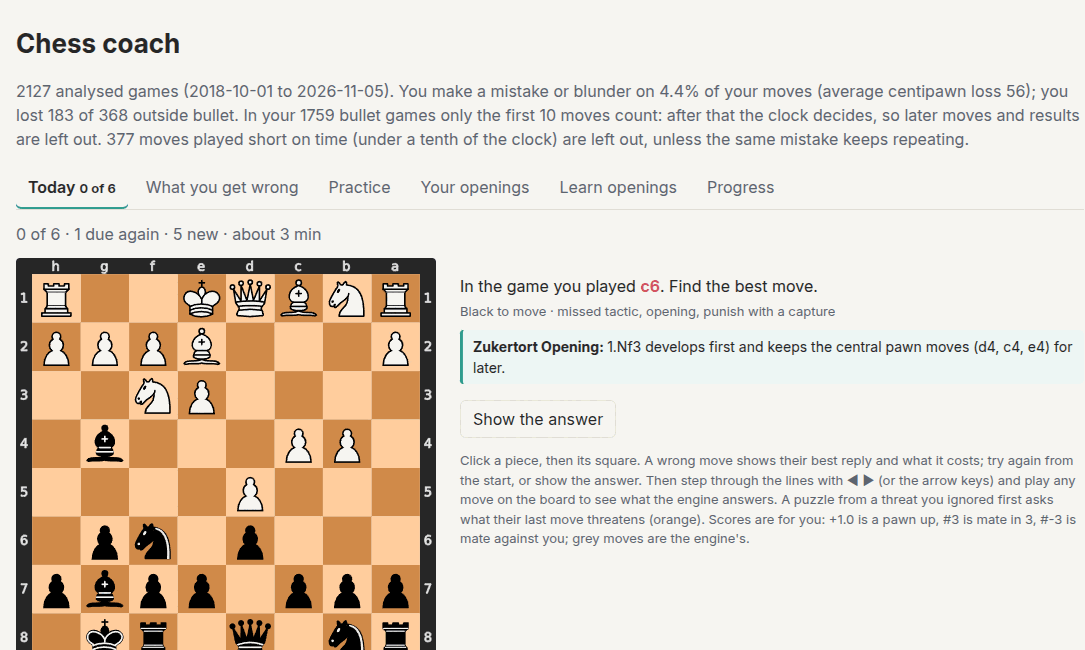
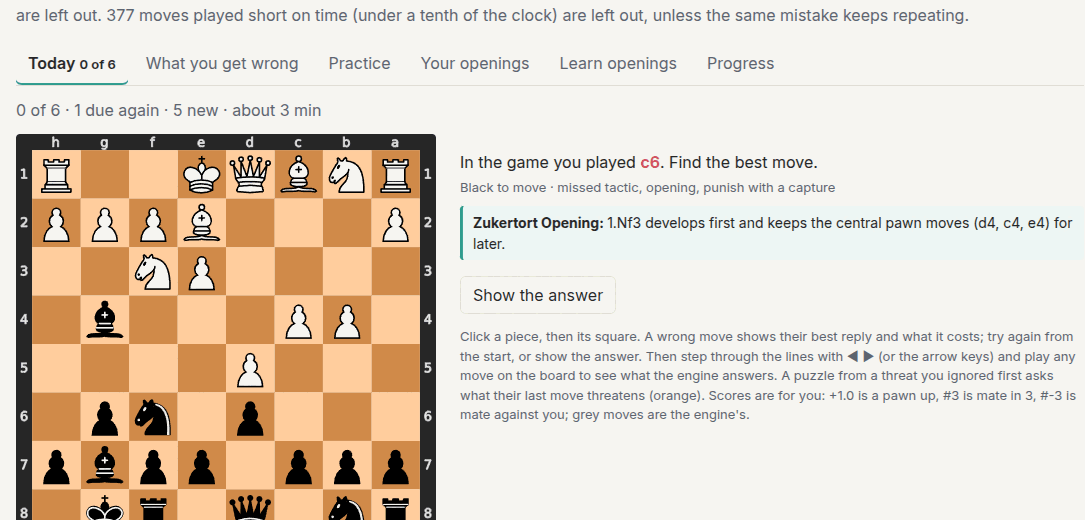
docs: line up the README's captions, and draw the diagram as an image

diff --git a/README.md b/README.md
@@ -34,36 +34,36 @@ to day.
 
 <table>
   <tr>
-    <td width="50%">
+    <td width="50%" valign="top">
       <b>Today</b><br>
       Ten things a day, reviews first. Short enough to finish.<br><br>
       <a href="docs/screenshots/today.png"><img src="docs/screenshots/today.png" alt="Today's practice session on a board"></a>
     </td>
-    <td width="50%">
+    <td width="50%" valign="top">
       <b>What you get wrong</b><br>
       The mistakes you repeat, shown on your own games.<br><br>
       <a href="docs/screenshots/mistakes.png"><img src="docs/screenshots/mistakes.png" alt="Repeated mistakes on boards, with what to learn"></a>
     </td>
   </tr>
   <tr>
-    <td width="50%">
+    <td width="50%" valign="top">
       <b>Practice</b><br>
       Puzzles made from your mistakes. See the best line next to what you played.<br><br>
       <a href="docs/screenshots/practice.png"><img src="docs/screenshots/practice.png" alt="A puzzle from a game, with the best line and the game's line"></a>
     </td>
-    <td width="50%">
+    <td width="50%" valign="top">
       <b>Your openings</b><br>
       Your score, your usual line, and the moves worth changing.<br><br>
       <a href="docs/screenshots/openings.png"><img src="docs/screenshots/openings.png" alt="Opening cards with scores and moves to improve"></a>
     </td>
   </tr>
   <tr>
-    <td width="50%">
+    <td width="50%" valign="top">
       <b>Learn openings</b><br>
       Your openings as a tree of your games, with the mistakes opponents keep making and how to punish them.<br><br>
       <a href="docs/screenshots/learn-openings.png"><img src="docs/screenshots/learn-openings.png" alt="The opening tree, with how often each move came up"></a>
     </td>
-    <td width="50%">
+    <td width="50%" valign="top">
       <b>Progress</b><br>
       How often you go wrong early in a game, compared with public players at each rating.<br><br>
       <a href="docs/screenshots/progress.png"><img src="docs/screenshots/progress.png" alt="Early-game error rates against opponents and stronger players"></a>
@@ -73,13 +73,7 @@ to day.
 
 ## How it works
 
-```mermaid
-flowchart LR
-    A[Your games] --> B[Stockfish checks every move]
-    B --> C[Mistakes you repeat]
-    C --> D[Puzzles and opening drills]
-    D --> E[Today's practice]
-```
+![Your games go to Stockfish, which finds the mistakes you repeat. They become puzzles and opening drills, then today's practice.](docs/screenshots/how-it-works.svg)
 
 - Stockfish decides what counts as a mistake. The explanations are worked out from the board, so
   no AI is needed. An AI summary is optional.
